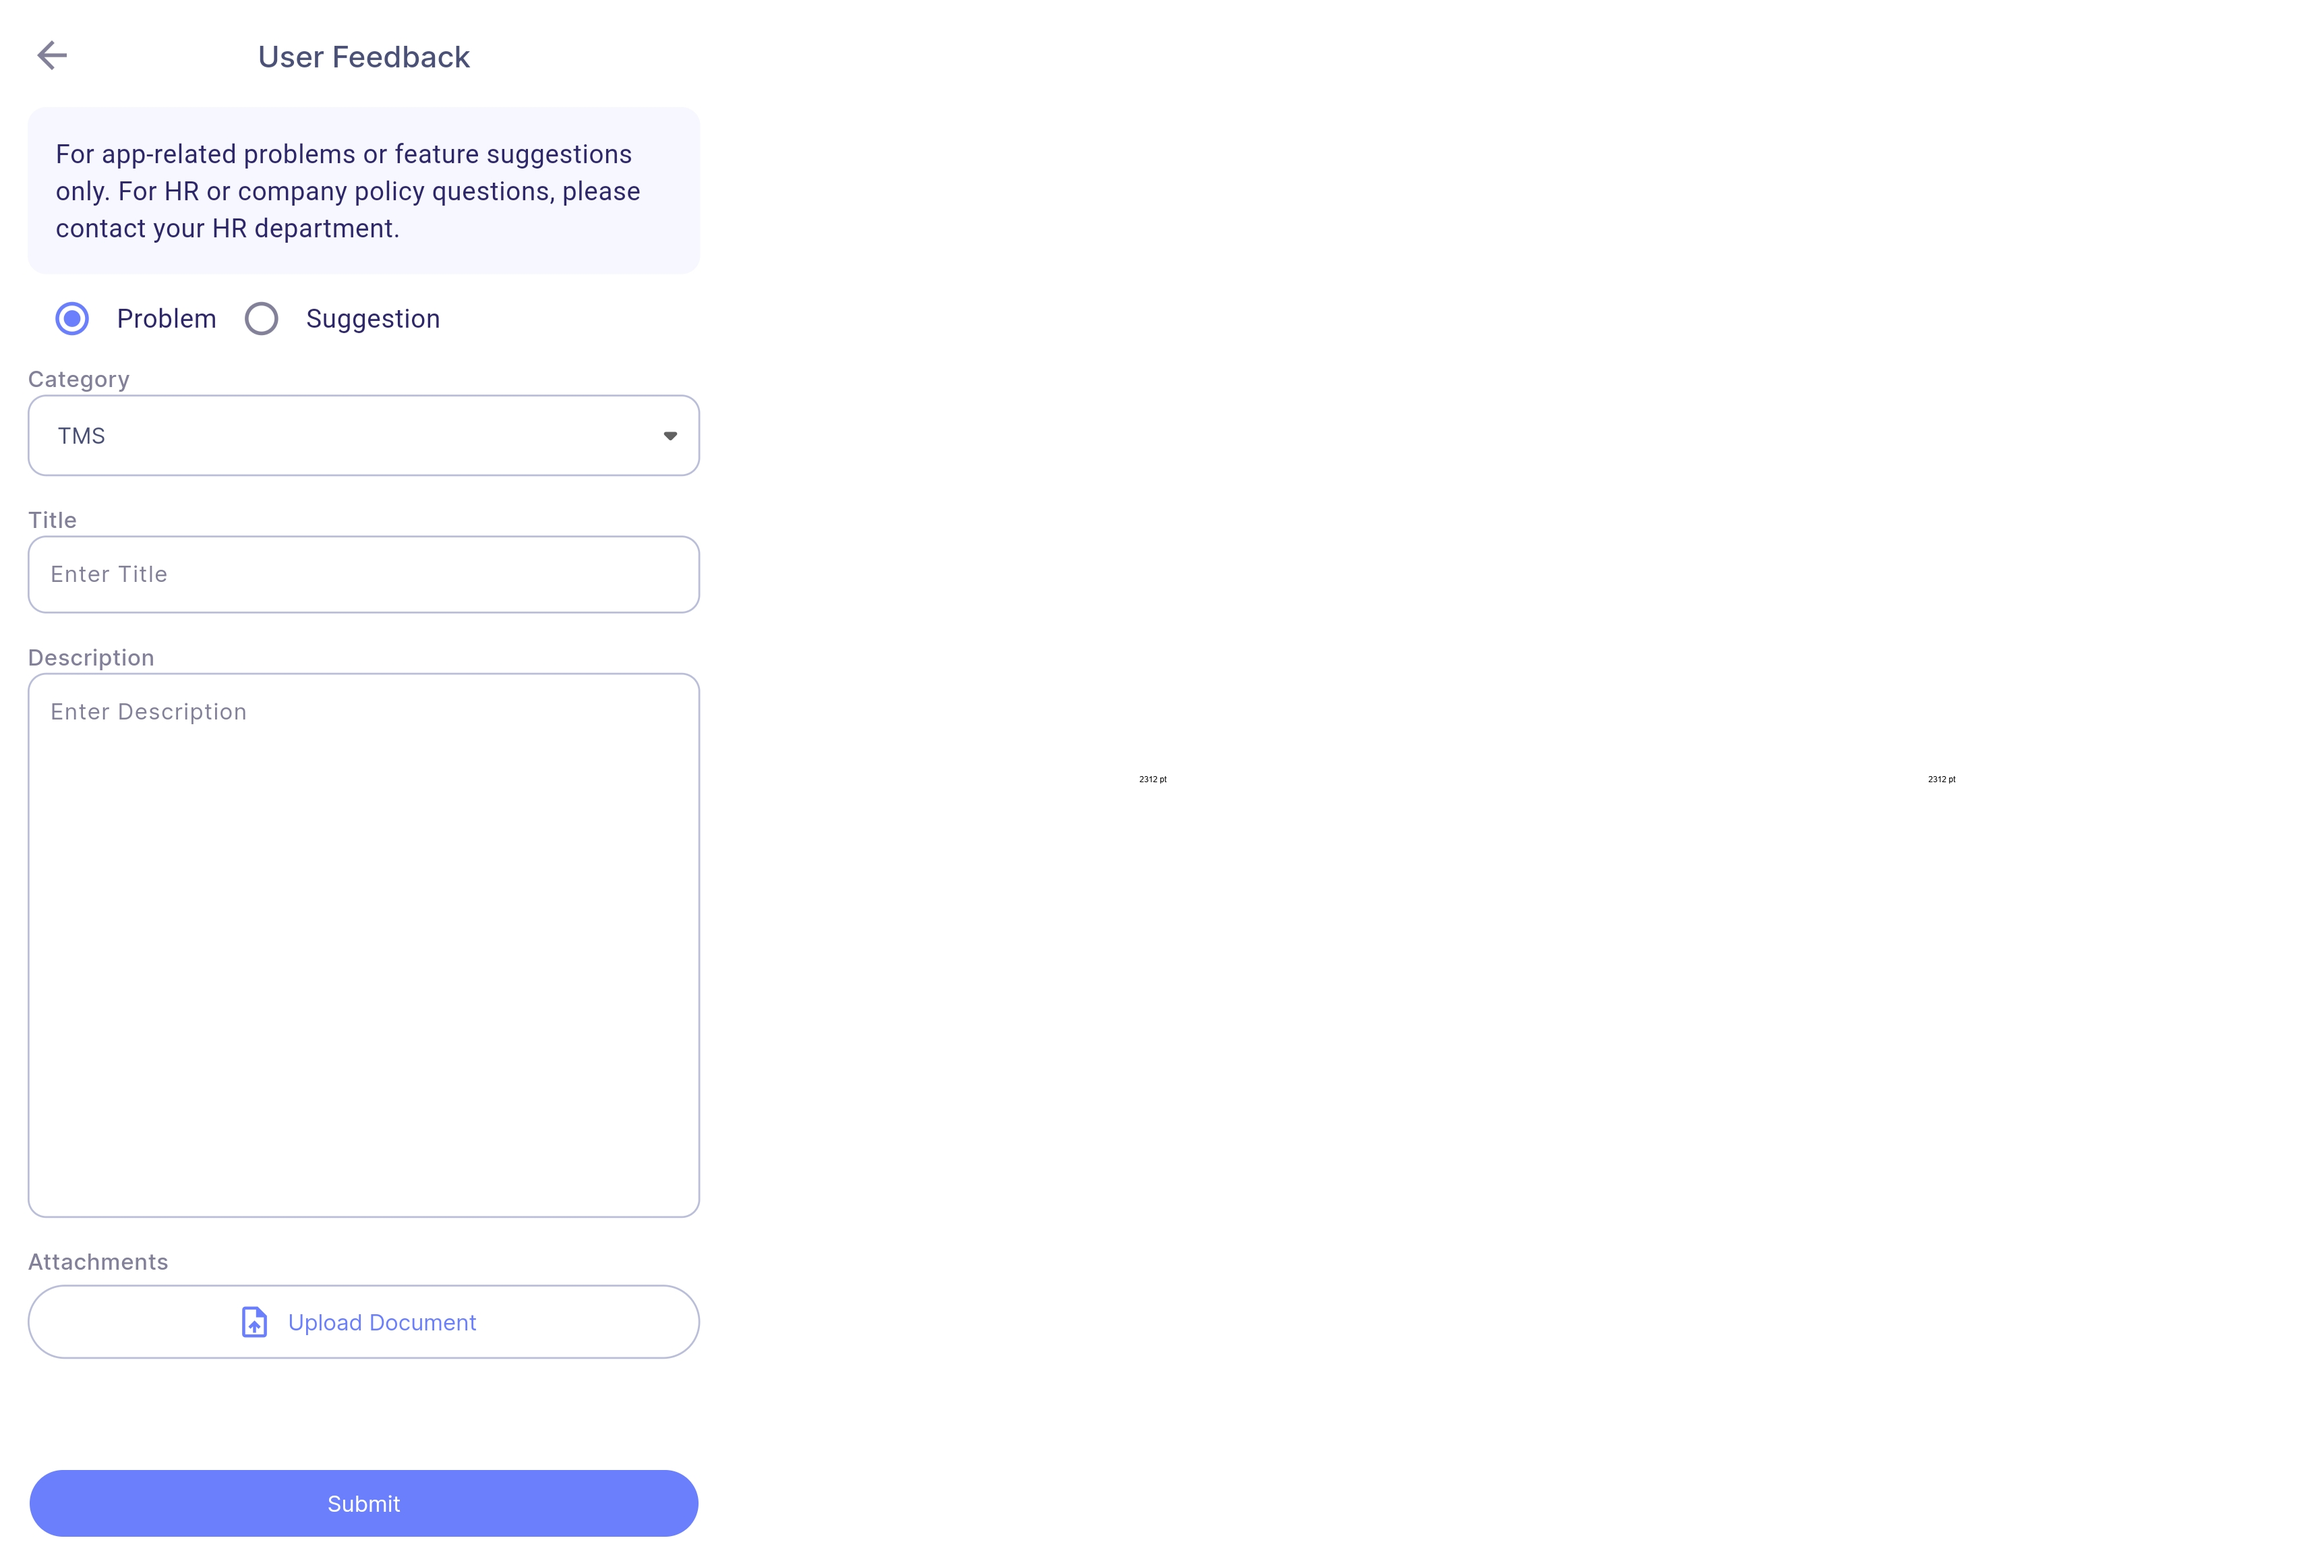
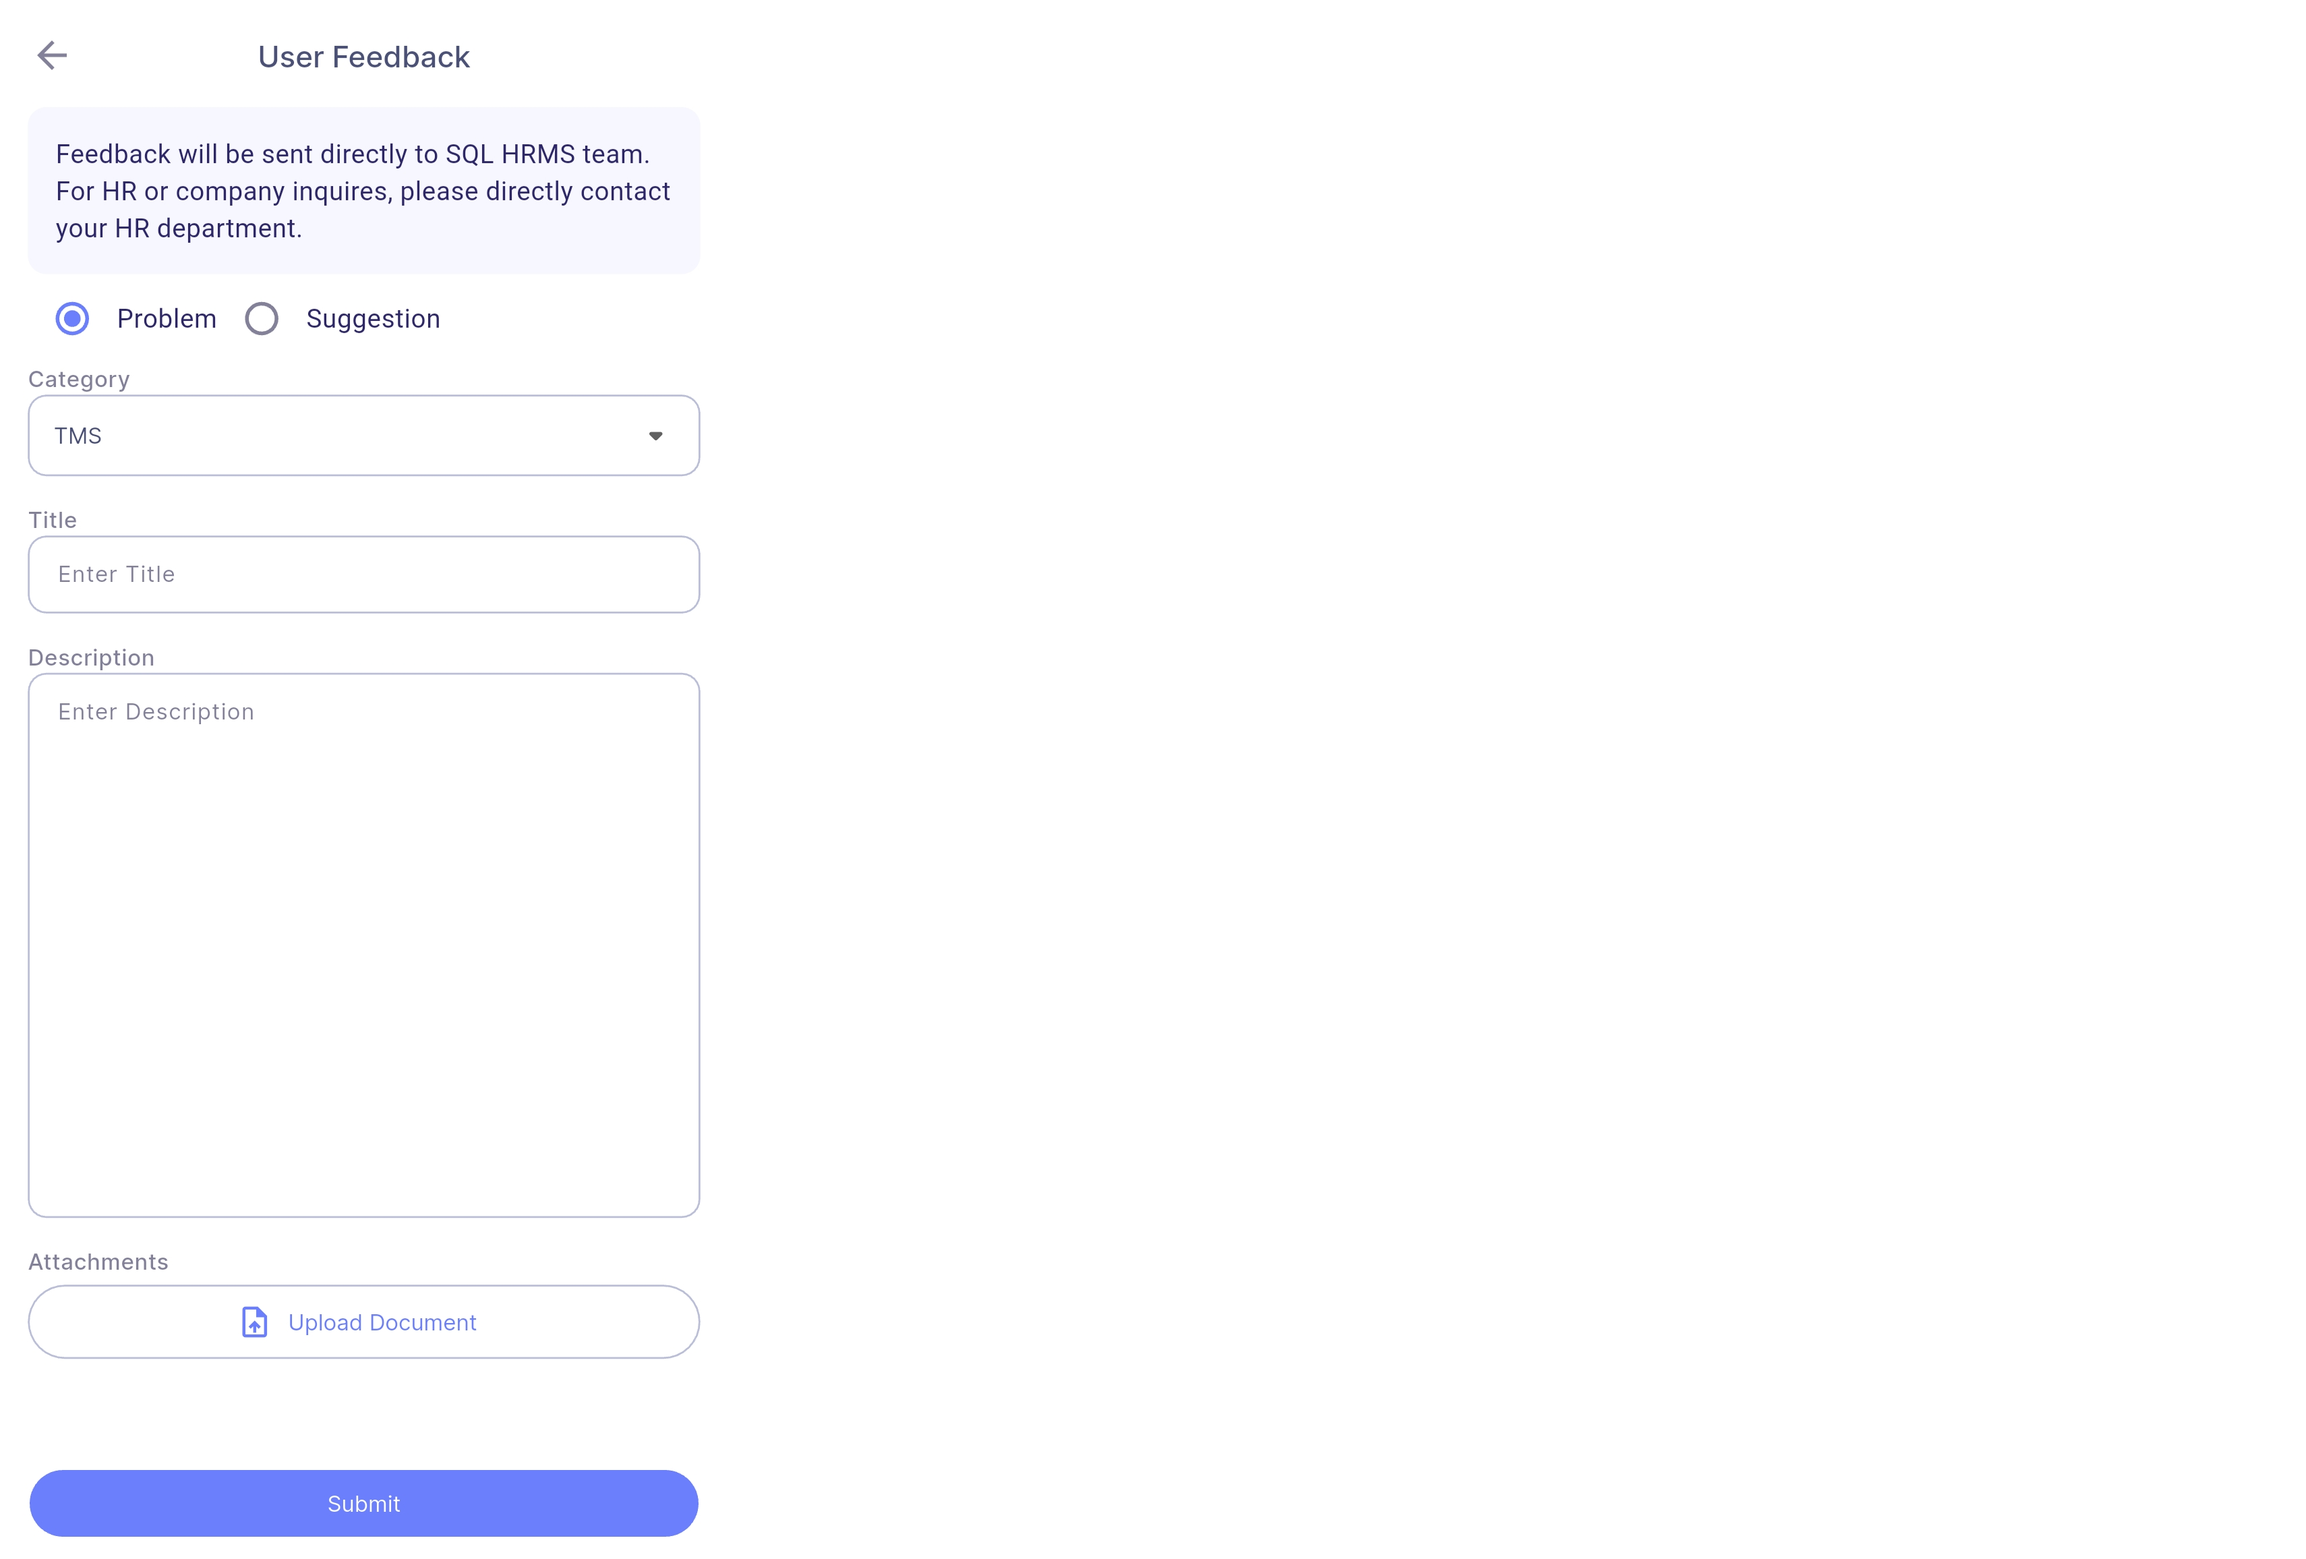
WIP: refactor: update hrms documentation

Changed region(s): [[0.031, 0.0934, 0.2789, 0.1557], [0.031, 0.436, 0.093, 0.4671], [0.031, 0.3426, 0.062, 0.3737]]

diff --git a/docs/integration/hrms/e-tms/payroll-setup.md b/docs/integration/hrms/e-tms/payroll-setup.md
@@ -72,7 +72,7 @@ Option 2: Click on ***'P' button*** | Select date
 
 :::info
 1. Only one clock method can be selected. However, if none of the clock method is selected, then the clock in / out button in SQL HRMS app will be disabled and employee does not require to clock in / out.
-2. Clock Method on days without work session, public holiday and rest day is by default **GPS**.
+2. Clock Method on days without work session, public holiday and rest day is by default **GPS**. User may update to their desire clock method in [Maintain Calendar](#maintain-calendar).
 :::
 
 **Step 5:** Select Rules  
@@ -161,11 +161,12 @@ For Custom Rule, may contact SQL Support for customization
 - **Black font:** Work Day with Session  
 - **Grey font:** No schedule is assigned  
 
-**Set Work Session**  
-- User may click on ***'R' button*** or ***'W' button*** | Select date from calendar
+**Set Work Session / Clock Method**  
+- User may click on ***'R' button*** (Rest Day), ***'W' button*** (Work Day) or ***'M' button*** (Clock Method for days without session) | Select date from calendar  
 - ***'C' button*** to clear Work Session / Rest Day
     - Alternatively, user may use ***'Clear All' button*** to clear all Rest Day and Work Session within the date range
-- User cannot assign work sessions or change work sessions on dates before summary last processed date  
+    - Note that clock method will also be reset back to **'GPS'**
+- User cannot assign work sessions, change work sessions or change clock method on dates before summary last processed date  
 - On days without work session assigned, no summary will be processed unless there are clock in / clock out logs on that day  
 
 ### Wizard  
@@ -204,7 +205,15 @@ For Custom Rule, may contact SQL Support for customization
     | By Weeks | Assign to every selected day of every selected weeks of the year |
     | Custom | Assign to selected dates |  
 
-**Step 5:** Process  
+**Step 5:** Next | Select a Clock Method  
+
+    ![calendar-wizard3](../../../../static/img/integration/hrms/e-tms/calendar-wizard3.png)  
+
+- Selected clock method will only be assigned to Rest Day, Public Holiday and Work Day without session on allowable dates within the selected date range  
+
+**Step 6:** Select a date range  
+
+**Step 7:** Process  
 
 :::warning
 User cannot assign work sessions or change work sessions on dates before summary last processed date
@@ -233,7 +242,8 @@ Date From need to be after summary last processed date to future dates (dates be
 **Explanation:** Delete all schedule (Work Session and Rest Day) of Employee 00006 from 20/5/2024 to 31/12/2024  
 
 :::info
-Date From need to be after summary last processed date to future dates (dates before summary last processed date are not allowed to delete)
+1. Date From need to be after summary last processed date to future dates (dates before summary last processed date are not allowed to delete)
+2. When schedule is cleared, clock method will be reset back to **'GPS'**
 :::
 
 ## Maintain Traveller Location

diff --git a/docs/integration/hrms/e-payroll/app-usage.md b/docs/integration/hrms/e-payroll/app-usage.md
@@ -29,6 +29,7 @@ User can view his monthly net pay and total net income
 
 - Payslip can be downloaded by tapping on the ***Download icon*** (top right corner)
 - User can tap on a payroll item for more detailed information
+- The ***Date*** column is referring to ***Transaction Date***  
 
 ## EA Form
 
@@ -44,7 +45,7 @@ User can view his monthly net pay and total net income
     ![activity-center](../../../../static/img/integration/hrms/e-payroll/activity-center.png)
 
 - Show employee’s latest payroll
-- User can tap on it will direct user to detailed payroll information
+- User can tap on it and will be directed to detailed payroll information
 
 ## Side Drawer
 
@@ -136,10 +137,11 @@ User can find frequently asked questions to understand better about SQL HRMS fea
     ![faq](../../../../static/img/integration/hrms/e-payroll/faq.png)
 
 #### User Feedback
-
-User can submit feedback on problems that they are facing or suggestions on how we can further improve SQL HRMS  
     
     ![user-feedback](../../../../static/img/integration/hrms/e-payroll/user-feedback.png)
+
+- User can submit feedback on problems that they are facing or suggestions on how we can further improve SQL HRMS  
+- All feedbacks are sent directly to SQL HRMS team  
 
 ## Birthday Calendar
 

diff --git a/docs/integration/hrms/e-tms/app-usage.md b/docs/integration/hrms/e-tms/app-usage.md
@@ -14,6 +14,7 @@ Enable **Autostart** for SQL HRMS to ensure E TMS features work accordingly (ref
 
 - **Session Card:** User's work session shift time
     - Icon on the top right corner (green box) indicates the clock method (by GPS or QR) of the day. If there is no icon displayed, it means that user is not required to clock for that day  
+      - Tap on the icon to navigate to [Work Session Calendar](#work-session-calendar)  
     - It shows user's first Clock In and last Clock Out of the day with an estimated calculation of late in and early out
     - User can tap on the card to direct to User's Attendance Log
     - User can tap on the ***'Clock In' button*** to direct to Clock In / Clock Out page
@@ -202,7 +203,7 @@ Shows the employee's OT entitlement
     - Late In
     - Early Out
     - Absence
-    - Outside
+    - No Out
     - OT
     - Leave
   

diff --git a/docs/integration/hrms/autostart.md b/docs/integration/hrms/autostart.md
@@ -13,5 +13,5 @@ This setting only available on **Android** devices that supports Auto Start
     ![autostart](../../../static/img/integration/hrms/autostart/autostart.png)
 
 :::info
-Encouraged to enable **Autostart** for SQL HRMS to ensure E TMS and Announcement features work accordingly
+Encouraged to enable **Autostart** for SQL HRMS to ensure that E TMS and Announcement features work accordingly
 :::
